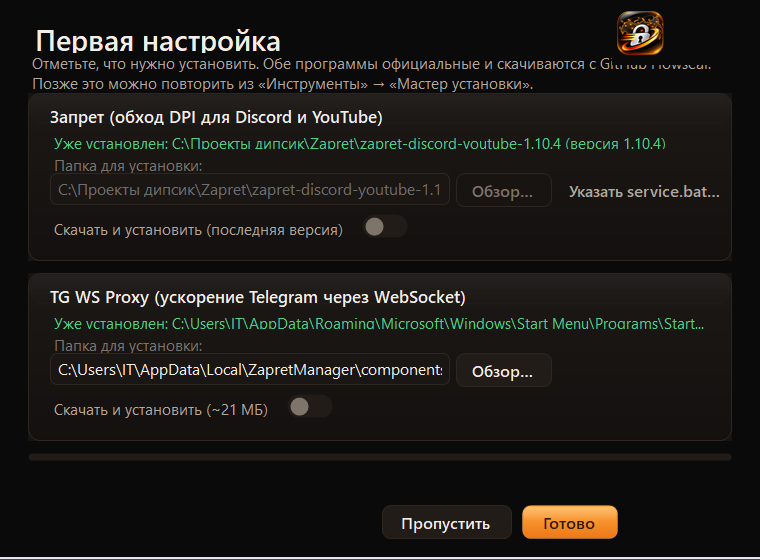
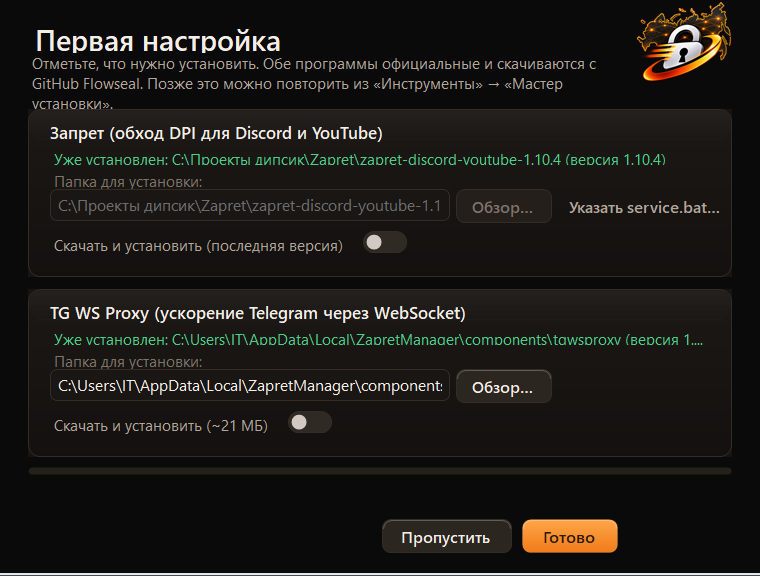
Замок без рамки для мастера и пустых состояний; мягче кнопки и переключатели
- новый ассет lock.png: крупная иллюстрация в мастере установки и в карточке «zapret не найден»
- кнопки: убран глянец, плоская заливка с тонкой светлой кромкой, спокойные secondary/danger/ghost
- переключатели: мягкая дорожка, анимация хода ползунка, тень
- чуть светлее поверхности, границы и выделение в навигации

diff --git a/src/SetupWizard.cs b/src/SetupWizard.cs
@@ -42,30 +42,30 @@ namespace ZapretManager
             ForeColor = Theme.Text;
             Font = Theme.Base;
             AutoScaleMode = AutoScaleMode.None;
-            ClientSize = new Size(760, 560);
+            ClientSize = new Size(760, 576);
 
             Controls.Add(L("Первая настройка", Theme.Title, Theme.Text, 28, 22));
             Controls.Add(WrapLabel("Отметьте, что нужно установить. Обе программы официальные и скачиваются с GitHub Flowseal. Позже это можно повторить из «Инструменты» → «Мастер установки».",
-                Theme.Small, Theme.TextDim, 28, 56, 704));
+                Theme.Small, Theme.TextDim, 28, 56, 590));
 
             BuildZapretCard();
             BuildTgCard();
 
             _progress = new LineProgress();
-            _progress.Location = new Point(28, 456);
+            _progress.Location = new Point(28, 470);
             _progress.Width = 704;
             Controls.Add(_progress);
 
-            _stage = L("", Theme.Small, Theme.TextMuted, 28, 470);
+            _stage = L("", Theme.Small, Theme.TextMuted, 28, 484);
             Controls.Add(_stage);
 
             _btnSkip = Btn("Пропустить", ButtonKind.Secondary, 130);
-            _btnSkip.Location = new Point(ClientSize.Width - 28 - 210 - 140, 508);
+            _btnSkip.Location = new Point(ClientSize.Width - 28 - 210 - 140, 522);
             _btnSkip.Click += delegate { DialogResult = DialogResult.Cancel; Close(); };
             Controls.Add(_btnSkip);
 
             _btnInstall = Btn("Установить и продолжить", ButtonKind.Primary, 210);
-            _btnInstall.Location = new Point(ClientSize.Width - 28 - 210, 508);
+            _btnInstall.Location = new Point(ClientSize.Width - 28 - 210, 522);
             _btnInstall.Click += delegate { StartInstall(); };
             Controls.Add(_btnInstall);
 
@@ -73,13 +73,13 @@ namespace ZapretManager
             CancelButton = _btnSkip;
 
             Panel logo = new Panel();
-            logo.Location = new Point(ClientSize.Width - 28 - 120, 8);
-            logo.Size = new Size(120, 60);
+            logo.Location = new Point(ClientSize.Width - 28 - 96, 2);
+            logo.Size = new Size(96, 96);
             logo.BackColor = Color.Transparent;
             logo.Paint += delegate(object s, PaintEventArgs e)
             {
                 e.Graphics.SmoothingMode = System.Drawing.Drawing2D.SmoothingMode.AntiAlias;
-                Brand.DrawIcon(e.Graphics, new Rectangle(0, 0, 56, 56));
+                Brand.DrawLock(e.Graphics, new Rectangle(0, 0, logo.Width, logo.Height), 255);
             };
             Controls.Add(logo);
 
@@ -132,7 +132,7 @@ namespace ZapretManager
         {
             _zapretCard = new Card("Запрет (обход DPI для Discord и YouTube)", 168);
             _zapretCard.Width = 704;
-            _zapretCard.Location = new Point(28, 96);
+            _zapretCard.Location = new Point(28, 112);
             Controls.Add(_zapretCard);
 
             _zapretStatus = L("", Theme.Small, Theme.TextDim, 22, 40);
@@ -170,7 +170,7 @@ namespace ZapretManager
         {
             _tgCard = new Card("TG WS Proxy (ускорение Telegram через WebSocket)", 168);
             _tgCard.Width = 704;
-            _tgCard.Location = new Point(28, 276);
+            _tgCard.Location = new Point(28, 292);
             Controls.Add(_tgCard);
 
             _tgStatus = L("", Theme.Small, Theme.TextDim, 22, 40);

diff --git a/src/Brand.cs b/src/Brand.cs
@@ -1,4 +1,4 @@
-using System;
+using System;
 using System.Drawing;
 using System.Drawing.Drawing2D;
 using System.Drawing.Imaging;
@@ -13,6 +13,7 @@ namespace ZapretManager
         private static bool _loaded;
         private static Bitmap _icon;
         private static Bitmap _logo;
+        private static Bitmap _lock;
 
         public static Bitmap Icon
         {
@@ -24,12 +25,19 @@ namespace ZapretManager
             get { EnsureLoaded(); return _logo; }
         }
 
+        /// <summary>Замок без рамки — для сайдбара, мастера и иллюстраций.</summary>
+        public static Bitmap Lock
+        {
+            get { EnsureLoaded(); return _lock; }
+        }
+
         private static void EnsureLoaded()
         {
             if (_loaded) return;
             _loaded = true;
             _icon = Load("app-icon.png");
             _logo = Load("logo-wide.png");
+            _lock = Load("lock.png");
         }
 
         private static Bitmap Load(string name)
@@ -70,7 +78,43 @@ namespace ZapretManager
             }
         }
 
-        /// <summary>Рисует широкий логотип в указанных границах (с сохранением пропорций).</summary>
+        /// <summary>Рисует замок без рамки; opacity 0..255.</summary>
+        public static void DrawLock(Graphics g, Rectangle bounds, int opacity)
+        {
+            Bitmap img = Lock;
+            if (img == null) return;
+            InterpolationMode oldMode = g.InterpolationMode;
+            g.InterpolationMode = InterpolationMode.HighQualityBicubic;
+            g.PixelOffsetMode = PixelOffsetMode.HighQuality;
+            try
+            {
+                float scale = Math.Min((float)bounds.Width / img.Width, (float)bounds.Height / img.Height);
+                int w = Math.Max(1, (int)(img.Width * scale));
+                int h = Math.Max(1, (int)(img.Height * scale));
+                int x = bounds.X + (bounds.Width - w) / 2;
+                int y = bounds.Y + (bounds.Height - h) / 2;
+                if (opacity >= 255)
+                {
+                    g.DrawImage(img, new Rectangle(x, y, w, h));
+                }
+                else
+                {
+                    ColorMatrix matrix = new ColorMatrix();
+                    matrix.Matrix33 = Math.Max(0f, Math.Min(1f, opacity / 255f));
+                    using (ImageAttributes attrs = new ImageAttributes())
+                    {
+                        attrs.SetColorMatrix(matrix, ColorMatrixFlag.Default, ColorAdjustType.Bitmap);
+                        g.DrawImage(img, new Rectangle(x, y, w, h), 0, 0, img.Width, img.Height, GraphicsUnit.Pixel, attrs);
+                    }
+                }
+            }
+            finally
+            {
+                g.InterpolationMode = oldMode;
+            }
+        }
+
+        /// <summary>Рисует широкий логотип в указанных границах (с сохранением пропорций).</summary>'
         public static bool DrawLogo(Graphics g, Rectangle bounds, ContentAlignment align)
         {
             Bitmap logo = Logo;

diff --git a/src/Shell.cs b/src/Shell.cs
@@ -698,6 +698,7 @@ namespace ZapretManager
             _content.BackColor = Theme.Bg;
             Controls.Add(_content);
 
+            // На маленьком размере лучше читается иконка в рамке (замок без рамки используем крупно)
             _logoBox = new Panel();
             _logoBox.Size = new Size(38, 38);
             _logoBox.Location = new Point(18, 20);
@@ -705,14 +706,12 @@ namespace ZapretManager
             _logoBox.Paint += delegate(object s, PaintEventArgs e)
             {
                 e.Graphics.SmoothingMode = SmoothingMode.AntiAlias;
-                Draw.FillRound(e.Graphics, new Rectangle(0, 0, 37, 37), 11, Color.FromArgb(46, 255, 138, 30));
-                Draw.DrawRound(e.Graphics, new Rectangle(0, 0, 37, 37), 11, Color.FromArgb(90, 255, 170, 80), 1f);
-                Brand.DrawIcon(e.Graphics, new Rectangle(2, 2, 34, 34));
+                Brand.DrawIcon(e.Graphics, new Rectangle(0, 0, 37, 37));
             };
             _sidebar.Controls.Add(_logoBox);
 
-            _sidebar.Controls.Add(L("Zapret Manager", Theme.Bold, Theme.Text, 60, 24));
-            _sidebar.Controls.Add(L("v" + AppInfo.Version, Theme.Small, Theme.TextMuted, 60, 42));
+            _sidebar.Controls.Add(L("Zapret Manager", Theme.Bold, Theme.Text, 64, 24));
+            _sidebar.Controls.Add(L("v" + AppInfo.Version, Theme.Small, Theme.TextMuted, 64, 42));
         }
 
         /// <summary>Ручная раскладка: сайдбар слева, контент справа, строка состояния снизу.</summary>

diff --git a/tools/make_assets.py b/tools/make_assets.py
@@ -1,4 +1,4 @@
-"""Сборка ассетов приложения из исходных изображений логотипа.
+"""Сборка ассетов приложения из исходных изображений логотипа.
 
 Использование:
     python tools/make_assets.py
@@ -63,6 +63,16 @@ def main():
     ico_path = os.path.join(OUT, "zapret-manager.ico")
     images[0].save(ico_path, format="ICO", sizes=[(s, s) for s in ICON_SIZES])
     print("icon:", os.path.getsize(ico_path), "bytes")
+
+    lock_src = os.path.join(SRC, "lock.png")
+    if os.path.exists(lock_src):
+        lock = Image.open(lock_src).convert("RGBA")
+        l = trim(lock)
+        w, h = l.size
+        scale = 256.0 / max(w, h)
+        l = l.resize((max(1, int(round(w * scale))), max(1, int(round(h * scale)))), Image.LANCZOS)
+        l.save(os.path.join(OUT, "lock.png"))
+        print("lock:", l.size, os.path.getsize(os.path.join(OUT, "lock.png")), "bytes")
 
     if os.path.exists(wide_src):
         wide = Image.open(wide_src).convert("RGBA")

diff --git a/src/PageOverview.cs b/src/PageOverview.cs
@@ -105,7 +105,12 @@ namespace ZapretManager
             Card card = _installCard;
             card.AccentStripe = Theme.Warn;
             card.Controls.Add(WrapLabel("Поместите ZapretManager.exe в папку zapret (рядом с service.bat) или укажите папку вручную. Можно также скачать и установить свежую версию автоматически.",
-                Theme.Base, Theme.TextDim, 22, 44, DesignWidth - 60));
+                Theme.Base, Theme.TextDim, 22, 44, DesignWidth - 280));
+            card.Paint += delegate(object s, PaintEventArgs e)
+            {
+                e.Graphics.SmoothingMode = System.Drawing.Drawing2D.SmoothingMode.AntiAlias;
+                Brand.DrawLock(e.Graphics, new Rectangle(card.ClientSize.Width - 232, 16, 200, 200), 235);
+            };
             RoundButton pick = Btn("Указать папку zapret…", ButtonKind.Secondary, 200);
             pick.Location = new Point(22, 118);
             pick.Click += delegate { PickFolder(); };

diff --git a/README.md b/README.md
@@ -253,4 +253,9 @@ assets\         иконка, логотип и их исходники (source\
 кнопки и ползунки, тёмные заголовки окон. Иконка приложения и широкий логотип
 вшиты в `ZapretManager.exe` как ресурсы, поэтому отдельные файлы рядом не нужны.
 Исходники картинок лежат в `assets\source\`, сборка ассетов — `tools\make_assets.py`
-(делает `app-icon.png`, `logo-wide.png` и многоразмерный `zapret-manager.ico`).
+(делает `app-icon.png`, `lock.png`, `logo-wide.png` и многоразмерный `zapret-manager.ico`).
+
+Используются три варианта логотипа: **иконка в рамке** — для exe, таскбара и сайдбара
+(на 38 px читается лучше всего), **замок без рамки** — крупно в мастере установки и в
+иллюстрации пустого состояния «zapret не найден», **широкий логотип** — на странице
+«О программе».
